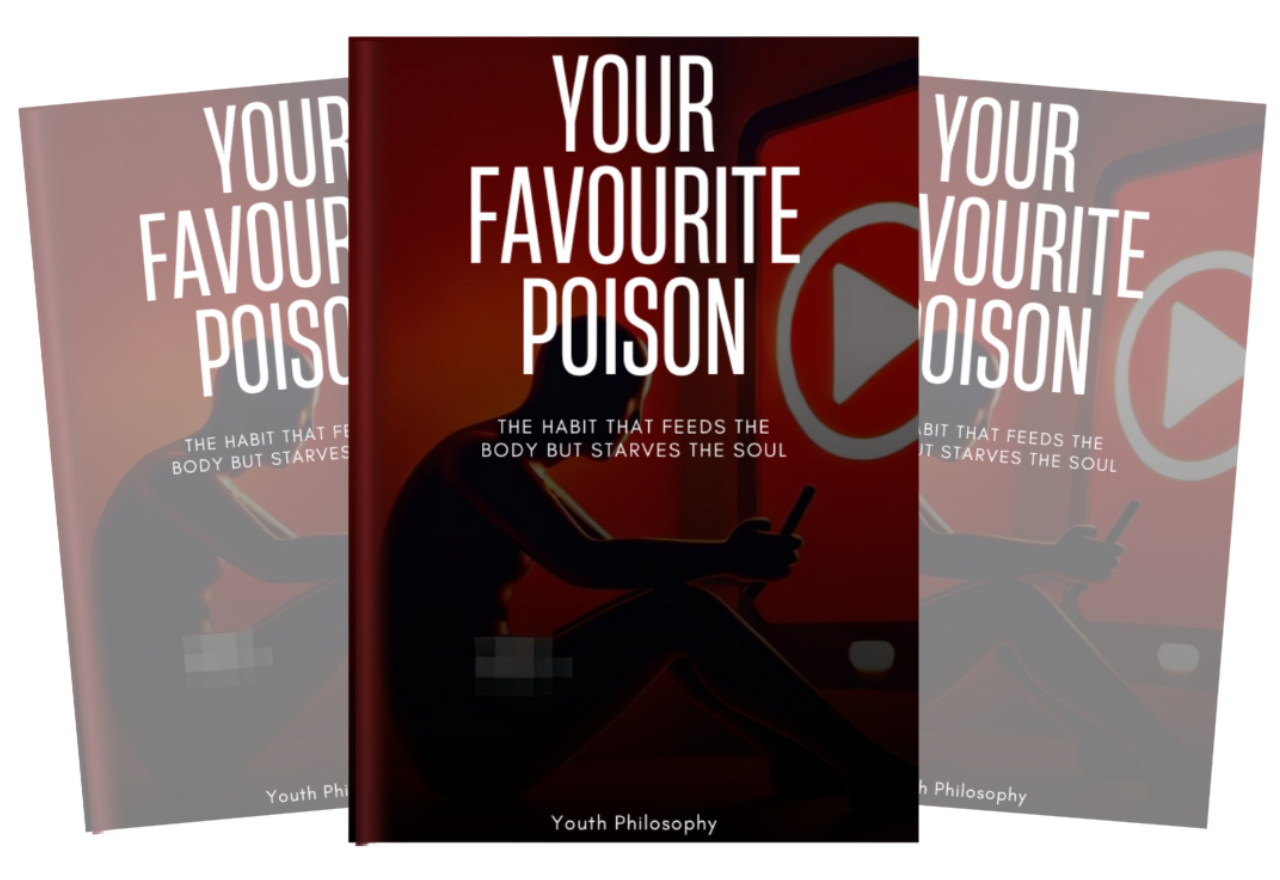
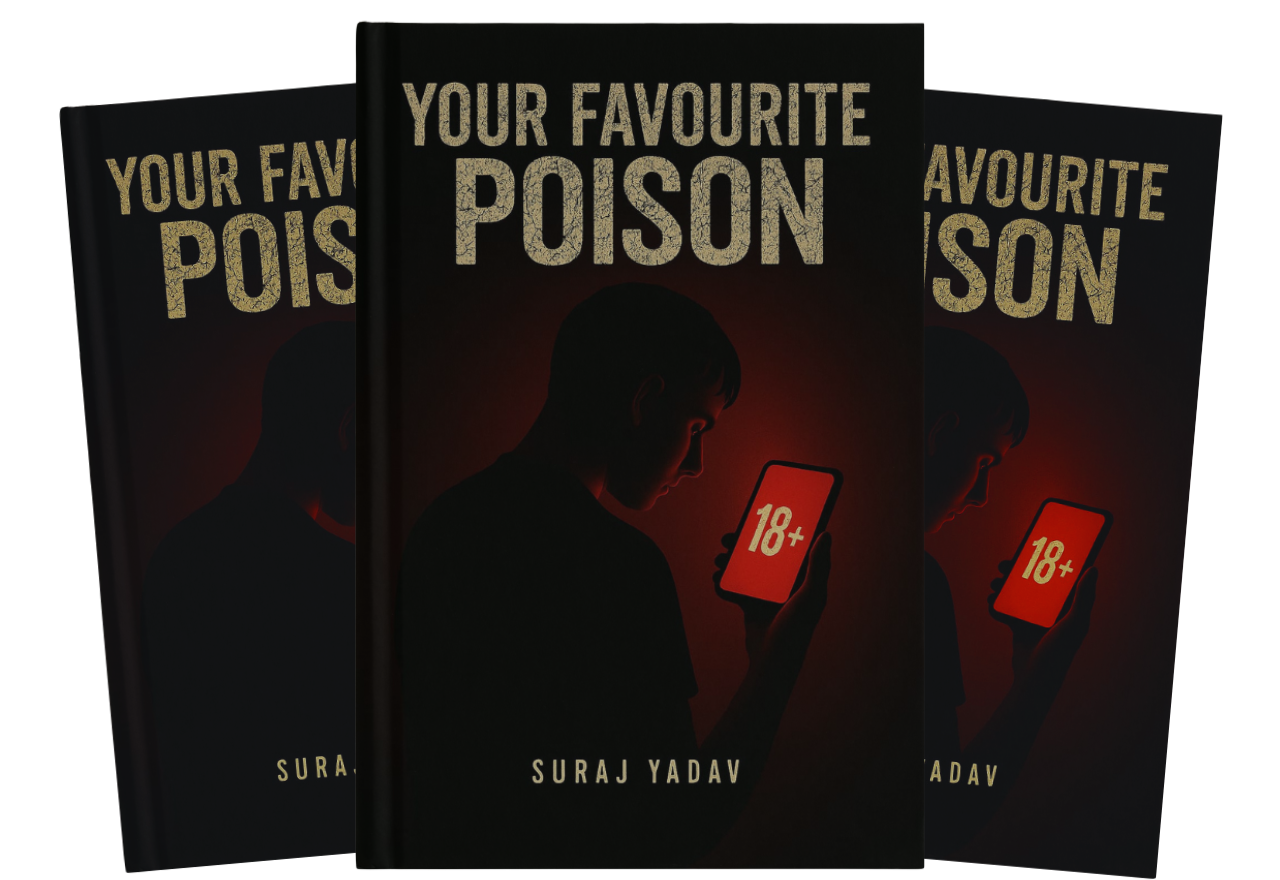
Cover image changes

diff --git a/src/pages/Home.jsx b/src/pages/Home.jsx
@@ -11,7 +11,7 @@ import Button from "../components/Button";
 
 // Assets
 import Quotation from "../assets/Quotation.svg";
-import EbookCover from "../assets/EbookCover2.png";
+import EbookCover from "../assets/EbookCover.png";
 import CoursePreview from "../assets/CoursePreview.png";
 
 const Home = () => {
